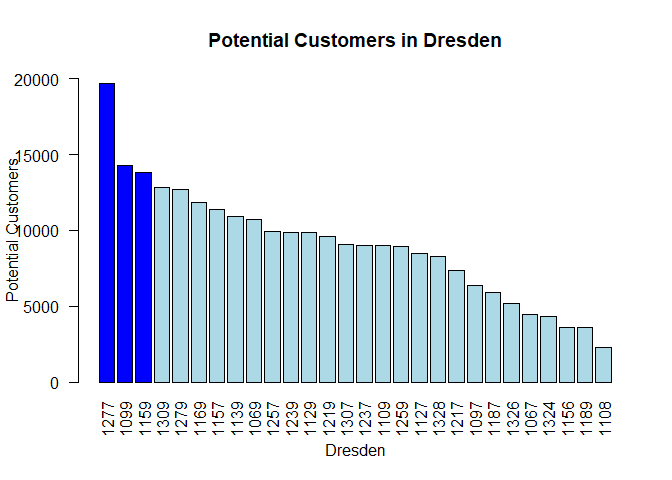
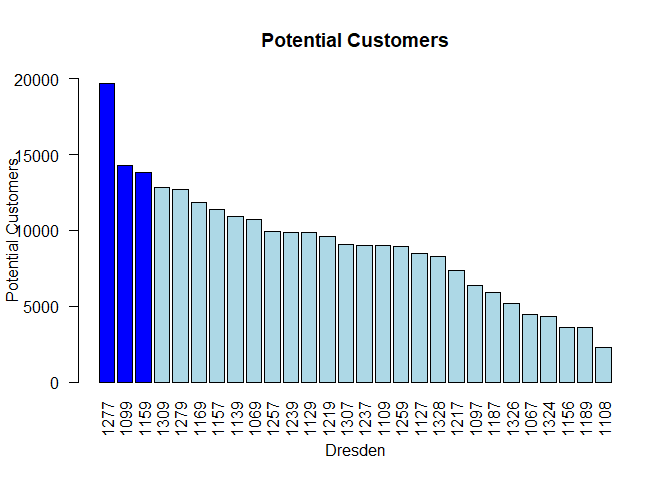
heatmap

Changed region(s): [[0.3125, 0.0625, 0.75, 0.125]]

diff --git a/R_auto_store_selection.md b/R_auto_store_selection.md
@@ -3,7 +3,7 @@ R_auto_store_selection
 SYsherley
 2023-11-10
 
-# Selection of electric vehicle store locations
+## Selection of electric vehicle store locations
 
 ``` r
 # library
@@ -153,14 +153,10 @@ library(lpSolve)
 library(irr)
 library(report)
 library(sjPlot)
-```
-
-    ## Learn more about sjPlot with 'browseVignettes("sjPlot")'.
-
-``` r
 library(sjmisc)
 ```
 
+    ## Learn more about sjmisc with 'browseVignettes("sjmisc")'.
     ## 
     ## Attaching package: 'sjmisc'
     ## 
@@ -323,6 +319,10 @@ library(gplots)    # heatmap
     ## 
     ##     lowess
 
+``` r
+library(png)
+```
+
 ## Import dataset
 
 ``` r
@@ -365,6 +365,8 @@ summary(car_stores)
 car_stores$customer<-car_stores$residents * car_stores$percentage_male
 ```
 
+### bar plot: number of customers
+
 ``` r
 # bar plot_number of people 
 # reorder in descending order
@@ -375,7 +377,7 @@ top_3_indices <- 1:3
 
 # Create a vector of colors
 bar_colors <- rep("lightblue", nrow(car_stores))  # Set a default color for all bars
-bar_colors[top_3_indices] <- "blue"  # Highlight the top 3 highest bars in red
+bar_colors[top_3_indices] <- "blue"         # Highlight the top 3 highest bars in red
 
 
 # re-define y-axis labels
@@ -390,18 +392,119 @@ barplot(car_stores$customer,
         xlab = "Dresden", 
         ylab = "Potential Customers", 
         col = bar_colors,
-        main = "Potential Customers in Dresden", 
+        main = "Potential Customers", 
         beside = TRUE, 
         ylim = y_limits,las = 2)# 
 ```
 
 ![](R_auto_store_selection_files/figure-gfm/unnamed-chunk-6-1.png)<!-- -->
 
-## Including Plots
+## Geographic Analysis
 
-You can also embed plots, for example:
+``` r
+#install.packages("geosphere")
+#library(geosphere)
 
-![](R_auto_store_selection_files/figure-gfm/pressure-1.png)<!-- -->
 
-Note that the `echo = FALSE` parameter was added to the code chunk to
-prevent printing of the R code that generated the plot.
+car_stores$plz<-as.character(car_stores$plz) # be convenient to assign column and row names
+
+
+# Select the location postcode, lantide, longitudes, and customer number
+dresden_places <- data.frame(car_stores$plz, 
+                             car_stores$lat,
+                             car_stores$lon,
+                             car_stores$customer)
+```
+
+### Calculate distance
+
+``` r
+# create a matrix to show the distance between each locations
+n <- nrow(dresden_places)
+distances_matrix <- matrix(NA, n, n)
+for (i in 1:n) {
+  for (j in 1:n) {
+    distances_matrix[i, j] <- distGeo(
+      p1 = c(dresden_places$car_stores.lon[i], dresden_places$car_stores.lat[i]),
+      p2 = c(dresden_places$car_stores.lon[j], dresden_places$car_stores.lat[j])
+    )
+  }
+}
+
+# assign row and column names to matrix
+rownames(distances_matrix) <- dresden_places$car_stores.plz
+colnames(distances_matrix) <- dresden_places$car_stores.plz
+
+
+# showing 10 rows of matrix
+print(distances_matrix[1:10, ])
+```
+
+    ##           1277      1099      1159     1309      1279      1169      1157
+    ## 1277     0.000  6466.919  7165.057 1472.695  1906.571  9687.124 10087.843
+    ## 1099  6466.919     0.000 10607.028 5514.059  7220.033 13147.652 11789.173
+    ## 1159  7165.057 10607.028     0.000 6494.847  8896.722  2633.711  3589.064
+    ## 1309  1472.695  5514.059  6494.847    0.000  3267.569  9107.867  9075.909
+    ## 1279  1906.571  7220.033  8896.722 3267.569     0.000 11334.217 11948.844
+    ## 1169  9687.124 13147.652  2633.711 9107.867 11334.217     0.000  3337.048
+    ## 1157 10087.843 11789.173  3589.064 9075.909 11948.844  3337.048     0.000
+    ## 1139  8939.783  9683.919  4020.086 7722.569 10845.658  5070.892  2289.654
+    ## 1069  4883.582  9065.168  2303.770 4355.131  6593.295  4810.293  5610.312
+    ## 1257  4443.662 10564.054  9495.091 5878.434  3370.756 11480.121 12975.234
+    ##           1139     1069      1257      1239      1129     1219     1307
+    ## 1277  8939.783 4883.582  4443.662  4408.970  8259.630 2471.840 2726.920
+    ## 1099  9683.919 9065.168 10564.054 10873.753  6837.958 8731.358 6081.652
+    ## 1159  4020.086 2303.770  9495.091  7751.712  6398.772 5898.775 5077.847
+    ## 1309  7722.569 4355.131  5878.434  5588.340  6809.801 3240.945 1527.668
+    ## 1279 10845.658 6593.295  3370.756  4227.912 10066.408 3421.279 4629.782
+    ## 1169  5070.892 4810.293 11480.121  9551.455  8191.326 8130.313 7709.458
+    ## 1157  2289.654 5610.312 12975.234 11310.412  5686.153 9287.709 7548.334
+    ## 1139     0.000 5244.743 12423.023 11022.435  3396.926 8692.323 6237.000
+    ## 1069  5244.743    0.000  7371.478  5806.984  6467.207 3679.609 3099.111
+    ## 1257 12423.023 7371.478     0.000  2079.479 12446.960 3735.047 6760.459
+    ##           1237      1109      1259      1127      1328      1217     1097
+    ## 1277  2141.802  9924.470  5612.118  6918.171  7222.641  4586.687 5620.529
+    ## 1099  8487.931  6034.872 10619.018  7311.552  7683.572 10361.442 6856.980
+    ## 1159  7833.672  9601.646 11820.755  4350.399 14333.836  4424.284 3954.949
+    ## 1309  3548.985  8470.931  7056.758  5575.511  7904.898  4916.530 4319.761
+    ## 1279  1788.390 11480.995  3832.774  8809.521  5831.118  5679.493 7520.330
+    ## 1169 10101.402 11433.213 13962.456  6385.761 16895.851  6242.795 6346.745
+    ## 1157 11141.074  8776.713 15179.596  4481.353 16942.939  8005.840 5129.204
+    ## 1139 10351.589  6524.522 14364.350  2433.799 15382.010  7950.710 3439.565
+    ## 1069  5570.227  9375.622  9590.362  4384.062 12085.580  2740.362 3357.886
+    ## 1257  2334.390 14348.500  2653.574 10814.002  7970.152  5237.437 9488.370
+    ##           1187      1326     1067      1324      1156      1189      1108
+    ## 1277  6971.765  3637.706 6712.832  4340.535 13127.304  7315.643 12732.496
+    ## 1099 11468.424  7521.222 8978.767  4241.070 15034.331 12459.813  7043.154
+    ## 1159  1862.795 10731.906 2004.846 10935.014  6115.287  3411.852 13671.182
+    ## 1309  6681.150  4811.875 5691.265  4461.000 12222.499  7329.855 11403.835
+    ## 1279  8470.036  1844.019 8589.220  3940.424 14935.983  8553.421 13941.708
+    ## 1169  3059.674 13178.183 4221.482 13558.629  4314.330  3994.281 15569.456
+    ## 1157  5244.803 13725.537 3388.678 13233.390  3271.991  6663.569 12877.078
+    ## 1139  5882.693 12519.439 2594.432 11550.826  5388.294  7431.466 10647.593
+    ## 1069  2416.620  8429.761 2650.668  8814.768  8388.858  3487.106 13211.424
+    ## 1257  8420.755  4021.304 9891.367  7195.693 15563.988  7886.482 17135.008
+
+### Heatmap
+
+``` r
+# using the matrix to create a heatmap to more directly show the distance
+#install.packages("gplots")
+library(gplots)
+#install.packages("png")
+library(png)
+```
+
+``` r
+# heatmap
+heatmap.2(distances_matrix,
+          col = colorRampPalette(c("white", "blue"))(100),  # Define the color scheme
+          trace = "none",                                   # Remove trace lines
+          density.info = "none",                            # Remove density plot
+          main = "Geographic Distance",
+          key.title = NA)                                   # Remove color key title
+```
+
+![](R_auto_store_selection_files/figure-gfm/unnamed-chunk-10-1.png)<!-- -->
+
+\`\`\`
